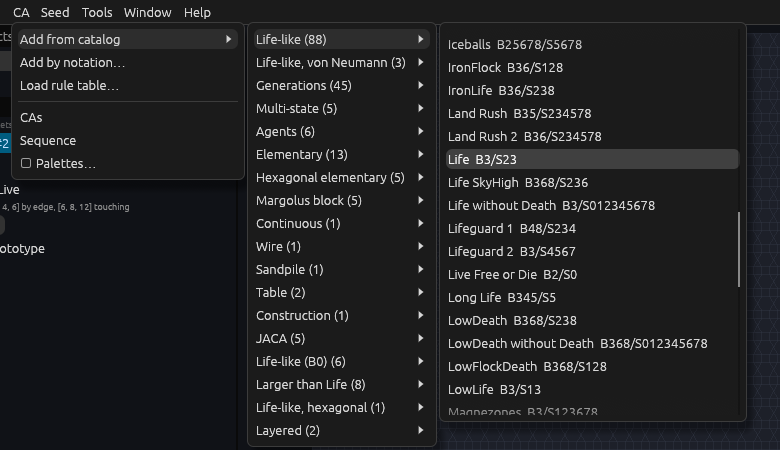
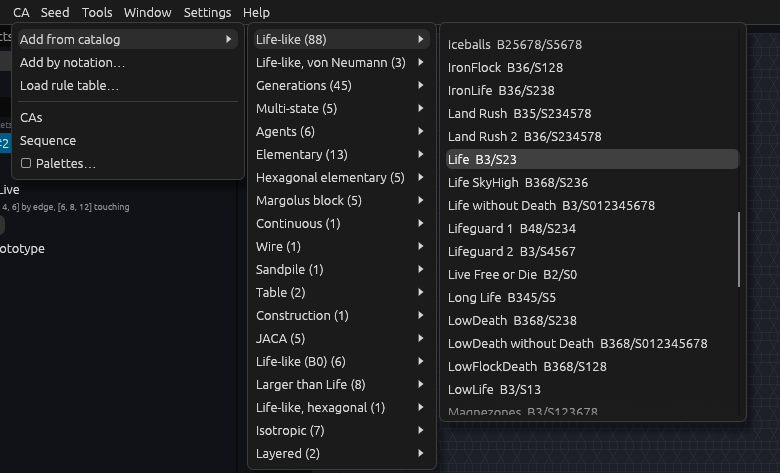
Tutorial 2's pictures drawn again; its picture test finds the Size list
shots_new_tiling clicked the Size list by the size it showed ("Fill the
view"), but since #240 the list is named "Size" for screen readers, as
its label is, so the test stopped there. It now clicks the widget right
of the Size label. Its four pictures show the Settings menu, the
catalog's Isotropic entry and the strobe guard's notes; the alt texts say
so.

diff --git a/crates/jetcarp-app/src/app/shots.rs b/crates/jetcarp-app/src/app/shots.rs
@@ -947,8 +947,9 @@ fn shots_new_tiling() {
     h.run(0.5, 0.05, |_| false);
     h.click("k2-007  ");
     h.built();
-    // About 10,000 cells, so the world is the same on any screen.
-    h.click("Fill the view");
+    // About 10,000 cells, so the world is the same on any screen. The Size list is named "Size"
+    // for screen readers (#219), as its label is: the list is the widget right of the label.
+    h.click_right_of("Size");
     h.click("About 10,000");
     h.built();
     h.run(0.5, 0.05, |_| false);

diff --git a/crates/jetcarp-mcp/resources/docs/tutorials/life-on-a-new-tiling.md b/crates/jetcarp-mcp/resources/docs/tutorials/life-on-a-new-tiling.md
@@ -64,7 +64,7 @@ the menu bar).
 Open the *Objects* pane and press *Find objects*. Every group of live tiles is run alone with the same
 rule until it repeats, and is counted by what it is:
 
-<img src="../images/tutorials/life-objects.webp" alt="The Objects pane: 18 objects at generation 500, 5 still, 12 oscillating, 1 moving; the row 1 × c/20 ship 8c #fabe95 is selected, and the ship is boxed in yellow in the grid" width="700">
+<img src="../images/tutorials/life-objects.webp" alt="The Objects pane: 18 objects at generation 500, 5 still, 12 oscillating, 1 moving; the row 1 × c/20 ship 8c #fabe95 is selected, and the ship is boxed in yellow in the grid; the status line notes the strobe guard softening the scene's flashes" width="700">
 
 Here 18 objects are left: 11 copies of a three-tile oscillator of period 2 (`p2 oscillator 3c`),
 another oscillator, five still lifes, and a spaceship, `c/20 ship 8c #fabe95`. Click a row to box its
@@ -89,7 +89,7 @@ pane, set *Neighbours* to *Edge*, so that only tiles across an edge count. The r
 `B3/S23V` (the `V` is for edge neighbours, as von Neumann's are on squares). Press *Edit → Reset*
 (R) to start again from the same soup, run it to the same generation, and find the objects again:
 
-<img src="../images/tutorials/life-objects-edge.webp" alt="The same world with edge neighbours: the Objects pane lists 70 still lifes and nothing else, the CAs pane shows Neighbours: Edge, and the status bar says Frozen" width="700">
+<img src="../images/tutorials/life-objects-edge.webp" alt="The same world with edge neighbours: the Objects pane lists 70 still lifes and nothing else, the CAs pane shows Neighbours: Edge, and the status bar says Frozen, with the strobe guard's note that it slowed the scene to 7.5 generations a second" width="700">
 
 With so few neighbours, nothing moves: the soup freezes into 70 still lifes within 16 generations.
 Rules behave differently on each tiling, and differently again with each neighbourhood. Set

diff --git a/docs/src/tutorials/life-on-a-new-tiling.md b/docs/src/tutorials/life-on-a-new-tiling.md
@@ -64,7 +64,7 @@ the menu bar).
 Open the *Objects* pane and press *Find objects*. Every group of live tiles is run alone with the same
 rule until it repeats, and is counted by what it is:
 
-<img src="../images/tutorials/life-objects.webp" alt="The Objects pane: 18 objects at generation 500, 5 still, 12 oscillating, 1 moving; the row 1 × c/20 ship 8c #fabe95 is selected, and the ship is boxed in yellow in the grid" width="700">
+<img src="../images/tutorials/life-objects.webp" alt="The Objects pane: 18 objects at generation 500, 5 still, 12 oscillating, 1 moving; the row 1 × c/20 ship 8c #fabe95 is selected, and the ship is boxed in yellow in the grid; the status line notes the strobe guard softening the scene's flashes" width="700">
 
 Here 18 objects are left: 11 copies of a three-tile oscillator of period 2 (`p2 oscillator 3c`),
 another oscillator, five still lifes, and a spaceship, `c/20 ship 8c #fabe95`. Click a row to box its
@@ -89,7 +89,7 @@ pane, set *Neighbours* to *Edge*, so that only tiles across an edge count. The r
 `B3/S23V` (the `V` is for edge neighbours, as von Neumann's are on squares). Press *Edit → Reset*
 (R) to start again from the same soup, run it to the same generation, and find the objects again:
 
-<img src="../images/tutorials/life-objects-edge.webp" alt="The same world with edge neighbours: the Objects pane lists 70 still lifes and nothing else, the CAs pane shows Neighbours: Edge, and the status bar says Frozen" width="700">
+<img src="../images/tutorials/life-objects-edge.webp" alt="The same world with edge neighbours: the Objects pane lists 70 still lifes and nothing else, the CAs pane shows Neighbours: Edge, and the status bar says Frozen, with the strobe guard's note that it slowed the scene to 7.5 generations a second" width="700">
 
 With so few neighbours, nothing moves: the soup freezes into 70 still lifes within 16 generations.
 Rules behave differently on each tiling, and differently again with each neighbourhood. Set
